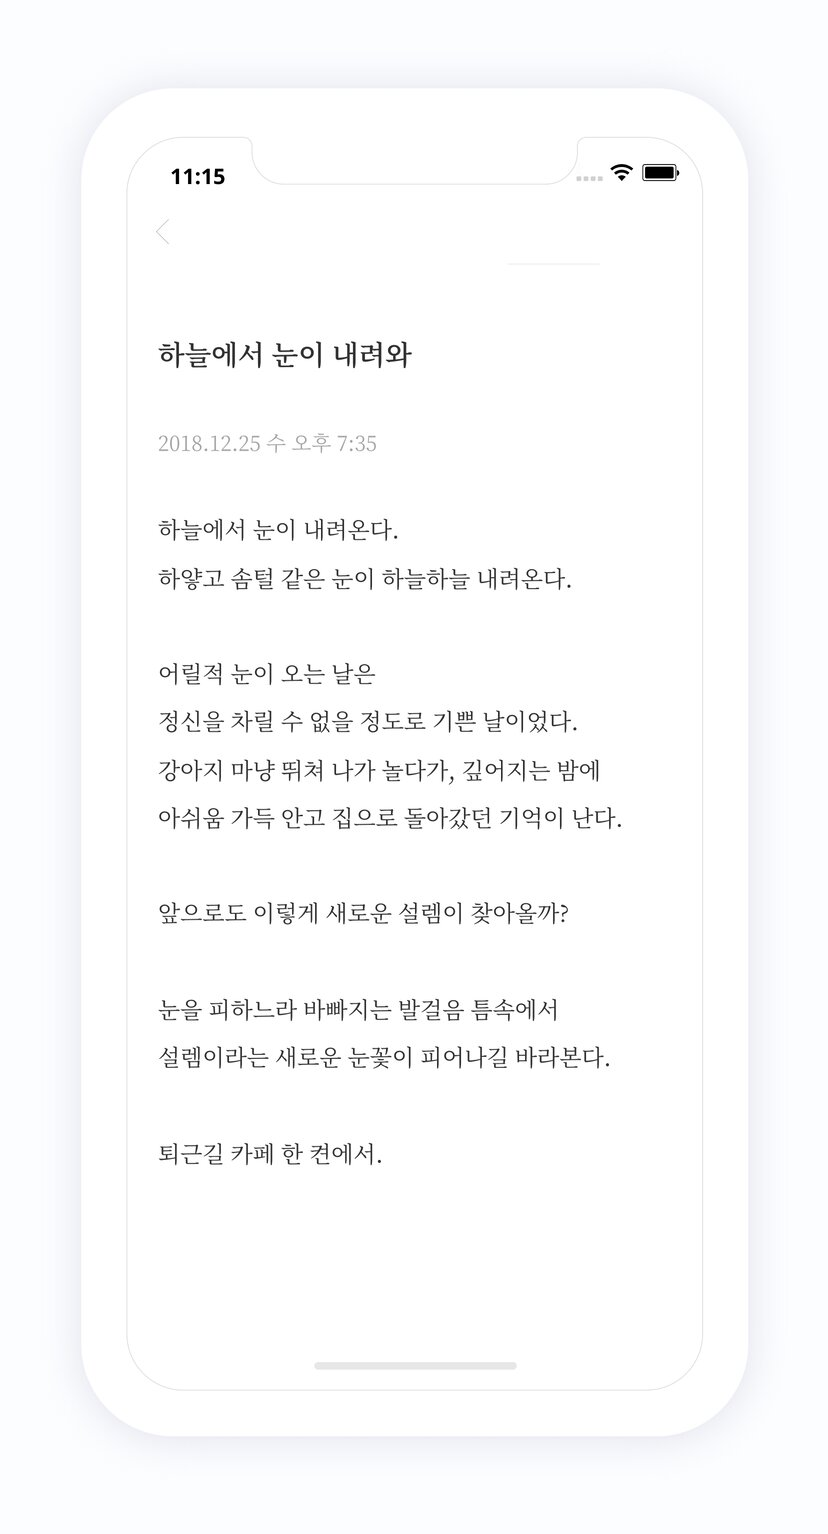
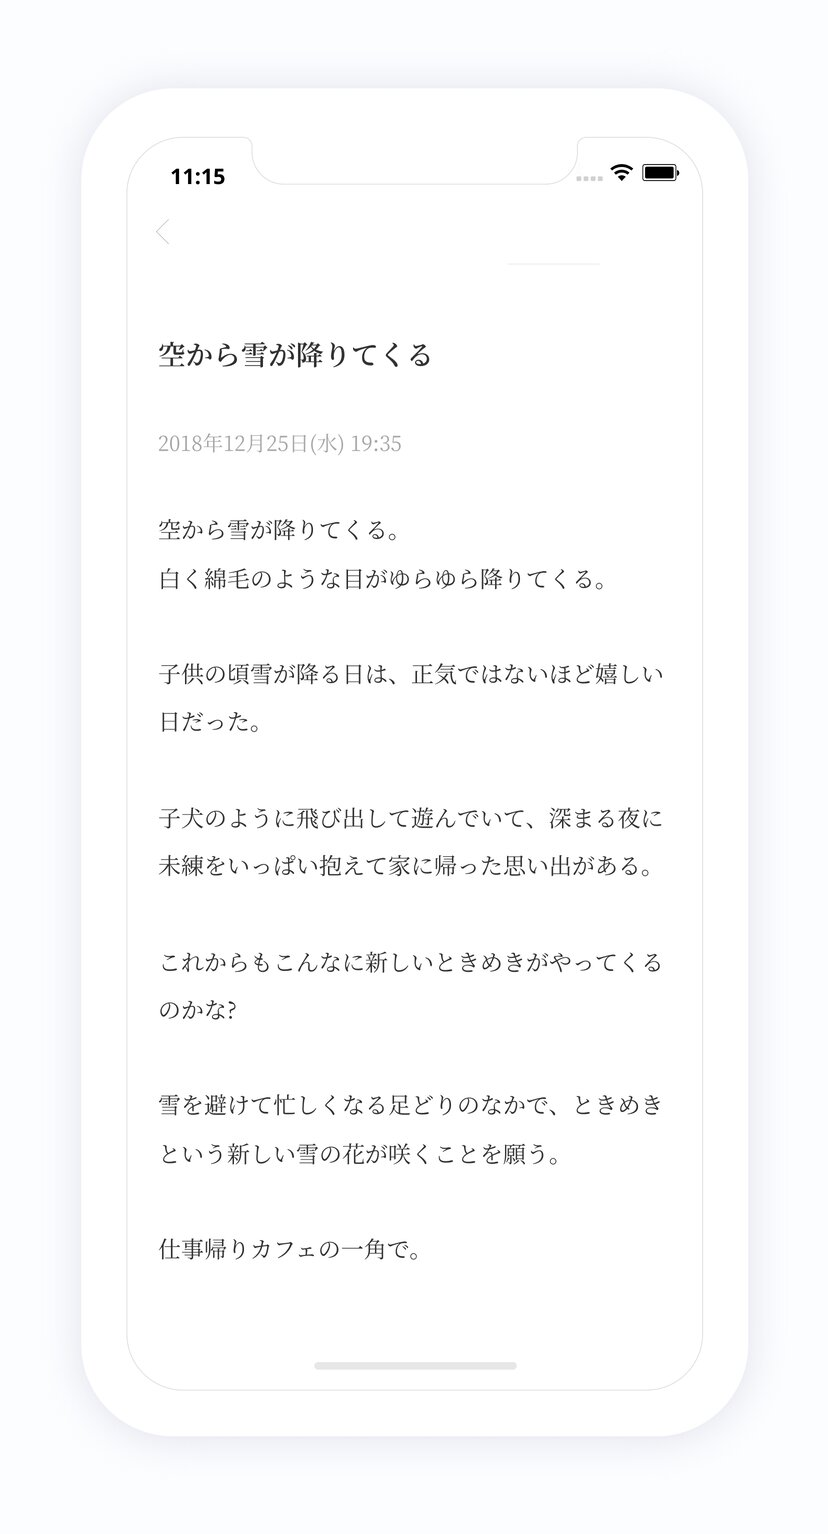
content(home): Swap in the Japanese App Store screenshots
- 일본어 홈 스크린샷 밴드의 임시 이미지(한국어판 복사본) 8장을 실제
  일본어 스크린샷으로 교체.
- 영어·한국어와 같은 방식으로 Figma 2x PNG(1656x3067)를
  scripts/make-screenshots.sh -l ja 로 828px WebP(q82) + JPEG(q85) 쌍으로
  변환. 밴드 전체 WebP 176K(한국어 160K와 비슷), 크기는 828x1534로
  HomeJa 의 width/height 속성과 일치.
- 8번 화면이 한국어판(손글씨 서체 목록)과 달리 둥근 고딕체와 손글씨체가
  섞인 글꼴 목록이라 alt 를 「丸ゴシックや手書き風など、多彩なフォント」로
  바꿈. 1~7번 alt 는 화면 구성이 같아 그대로 둠.
- 더 이상 사실이 아닌 "임시 이미지" TODO 주석을 제거.
- 검증: npm run build 성공, npm run verify 42페이지 0 problems. 16개 파일
  모두 정상 디코딩되고 한국어판과 다른 파일임을 확인.

diff --git a/site/components/home/HomeJa.js b/site/components/home/HomeJa.js
@@ -13,9 +13,6 @@ import { phrases } from "@/lib/phrases";
 // 항목마다 .webp 와 .jpg 가 짝으로 존재한다 — 둘 다 `npm run screenshots`
 // (scripts/make-screenshots.sh) 가 만든다. 짝이 어긋나지 않도록 확장자는
 // 여기에 적지 않는다.
-// TODO: 일본어 스크린샷이 준비될 때까지 한국어판을 그대로 복사한 임시
-// 이미지(screenshot_<N>_ja.*)를 쓰고 있다. 받으면
-// `npm run screenshots -- -l ja --install` 로 교체할 것.
 const SCREENSHOTS = [
   { base: "/assets/images/appstore/screenshot_1_ja", alt: "PenCakeアプリ ― ミニマルな日記の一覧" },
   { base: "/assets/images/appstore/screenshot_2_ja", alt: "PenCakeアプリ ― 美しい明朝体で綴った日記" },
@@ -24,7 +21,7 @@ const SCREENSHOTS = [
   { base: "/assets/images/appstore/screenshot_5_ja", alt: "PenCakeアプリ ― 考えを整理できる物語の一覧" },
   { base: "/assets/images/appstore/screenshot_6_ja", alt: "PenCakeアプリ ― デバイス間の同期" },
   { base: "/assets/images/appstore/screenshot_7_ja", alt: "PenCakeアプリ ― 気分で選べるテーマ" },
-  { base: "/assets/images/appstore/screenshot_8_ja", alt: "PenCakeアプリ ― 手書き風のフォント" },
+  { base: "/assets/images/appstore/screenshot_8_ja", alt: "PenCakeアプリ ― 丸ゴシックや手書き風など、多彩なフォント" },
 ];
 
 const FEATURES = [
